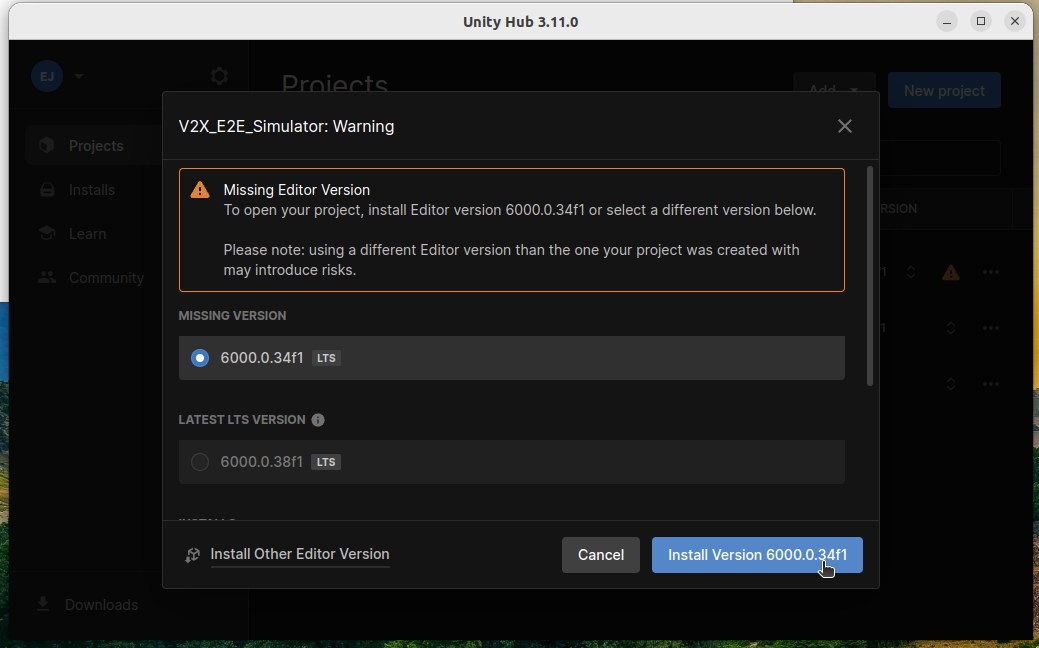
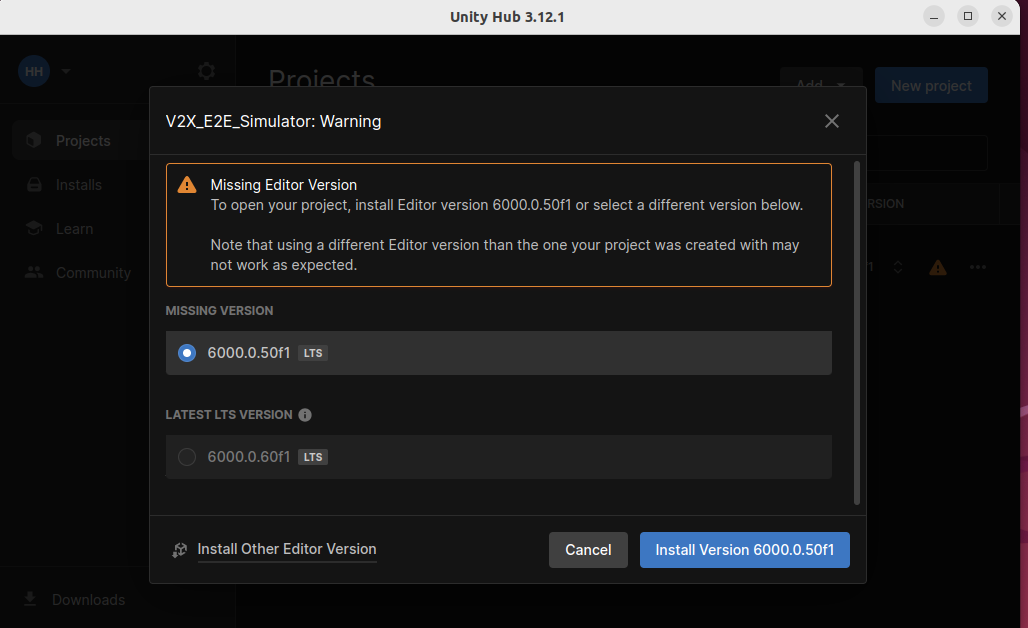
docs: installation updated

diff --git a/docs/main.css b/docs/main.css
@@ -1,6 +1,8 @@
-.md-content p,
-.md-content li,
-.md-content blockquote {
+/* .md-content p, */
+/* .md-content li */
+/* .md-content blockquote {
   text-align: justify;
   text-justify: inter-word;
-}
+  text-align-last: left; 
+  hyphens: auto;
+}  */

diff --git a/docs/GettingStarted/SetupUnityProject/index.md b/docs/GettingStarted/SetupUnityProject/index.md
@@ -55,7 +55,7 @@ E2E_V2E Simulator comes with a *standalone* flavor of [`Ros2ForUnity`](../../Com
 
 
 === "Ubuntu 22"
-    - Make sure that the terminal which you are using to run Unity Hub, Editor, or AWSIM doesn't have ROS 2 sourced.
+    - Make sure that the terminal which you are using to run Unity Hub, Editor, or V2X doesn't have ROS 2 sourced.
     - It is common to have ROS 2 sourced automatically with `~/.bashrc` or `~/.profile`. Make sure it is not obscuring your working environment:
         - Running Unity Hub from the Ubuntu GUI menu takes the environment configuration from `~/.profile`.
         - Running Unity Hub from the terminal uses the current terminal configuration from `~/.profile` and `~/.bashrc`.
@@ -86,8 +86,9 @@ The easiest way to be sure about your version is by using 'Software & Updates' i
 
 Follow the steps below to install Unity on your machine:
 
-1. Install **UnityHub** to manage Unity projects. Please go to [Unity download page](https://unity3d.com/get-unity/download) and download latest `UnityHub.AppImage`.
-![](image_1.png)
+1. Install **UnityHub** to manage Unity projects. Please go to [Unity download page](https://docs.unity3d.com/hub/manual/InstallHub.html) and download the DEB package link.
+![alt text](image-11.png)
+
 2. Install Unity 6 via UnityHub.
     - Open new terminal, navigate to directory where `UnityHub.AppImage` is download and execute the following command (or find the unityhub icon and run it):
 ```
@@ -99,8 +100,13 @@ Follow the steps below to install Unity on your machine:
         ```
     - Now we add the project to unity hub
     ![](image_6.png)
-    - In this step, you have to select either 'V2X_E2E_Simulator' or 'AWSIM' (you will only see one of these options in your setup sequence).
+    - In this step, you have to select either 'V2X_E2E_Simulator'.
     ![alt text](image-9.png)
+
+    !!! warning
+
+        You may see a window during this step that says you need to install the Editor first. The window provides two options: Open and Cancel.
+        At this stage, the Open button does not function, so select Cancel to continue instructions.
 
     - Then, you will see this error (if you don't already have the exact version of Unity 6).
     ![alt text](image-4.png)
@@ -152,17 +158,21 @@ To open the Unity AWSIM project in Unity Editor:
  -->
 
 !!! warning
-
+    <div style="text-align: left; text-justify: no;">
     If you get the safe mode dialog when starting UnityEditor, you may need to install openssl.
 
-    1. download libssl  
-    `$ wget http://security.ubuntu.com/ubuntu/pool/main/o/openssl1.0/libssl1.0.0_1.0.2n-1ubuntu5.13_amd64.deb`
-    2. install  
-    `sudo dpkg -i libssl1.0.0_1.0.2n-1ubuntu5.13_amd64.deb`
+    1. Download libssl  
+       `$ wget http://security.ubuntu.com/ubuntu/pool/main/o/openssl1.0/libssl1.0.0_1.0.2n-1ubuntu5.13_amd64.deb`
+    2. Install  
+       `sudo dpkg -i libssl1.0.0_1.0.2n-1ubuntu5.13_amd64.deb`
+    </div>
+
+
+
 
 ### Import external packages
 
-To properly run and use AWSIM project in Unity it is required to download map package which is not included in the repository.
+To properly run and use our project in Unity it is required to download map package which is not included in the repository.
 
 1. Download and import the latest E2E_V2E_<version.unitypackage unity package 
 

diff --git a/docs/LoadPCD/index.md b/docs/LoadPCD/index.md
@@ -1,3 +1,11 @@
+<style>
+
+.md-content {
+  text-align: justify;
+}
+
+</style>
+
 # Loading PCD Files in Unity
 
 Loading Point Cloud Data (PCD) files into Unity can be challenging and often requires a paid solution. In this project, we've utilized the Pcx repository available on [GitHub](https://github.com/keijiro/Pcx). However, it's important to note that Pcx is primarily designed to work with `.ply` files. We recommend using CloudCompare to convert `.pcd` files to `.ply`. In the initial step, simply open the `.pcd` file and make sure not to change anything related to the position of the points.
